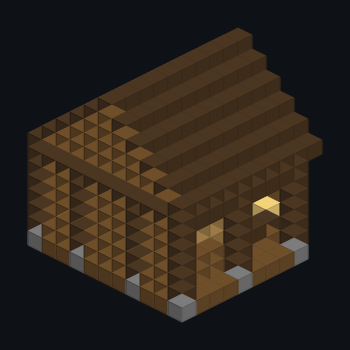
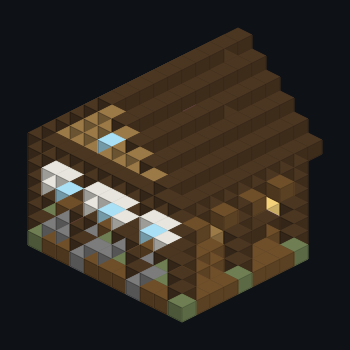
feat(world): ST4a pass over the streets and shipwright, document the village look

diff --git a/art/structures/village/shipwright.py b/art/structures/village/shipwright.py
@@ -3,8 +3,13 @@ along z) and prints the BuildSpec as JSON. The building connector is on the nort
 apron in front of the open shed.
 
 Inside: a half-built hull frame of stripped logs (keel, stem, three ribs, a strake of planks), sawhorses, a stack of
-logs, stacked planks and a workbench along the closed back wall."""
-from _style import DARK, PALETTE, lantern_post
+logs, stacked planks and a workbench along the closed back wall, a grindstone, a tar cauldron, a hoist chain from a
+collar beam over the bow.
+
+Look (ST4a): posts on mossy cobblestone footings with knee braces (upside-down stairs) under the beams, a king post
+truss in the open front gable, a back wall of two cobblestone courses (mossy towards the ground), a spruce band and
+render with three windows, the gable above it boarded in oak with a round light."""
+from _style import DARK, PALETTE, lantern_post, stairs_state, window
 from buildspec import Piece
 
 X0, X1, Z0, Z1 = 0, 10, 1, 9          # the posts' outline
@@ -21,7 +26,7 @@ p.fill(3, 0, 0, 7, 0, 0, "gravel")
 # posts and beams: open front and sides, a closed plank back wall
 posts = [(x, z) for x in (X0, X1) for z in (Z0, 5, Z1)] + [(3, Z1), (7, Z1)]
 for x, z in posts:
-    p.put(x, 0, z, "cobble")
+    p.put(x, 0, z, "plinth_mossy" if (x + z) % 2 else "plinth")
     p.fill(x, 1, z, x, BEAM - 1, z, "post")
 p.fill(X0, BEAM, Z0, X0, BEAM, Z1, "beam_z")
 p.fill(X1, BEAM, Z0, X1, BEAM, Z1, "beam_z")
@@ -29,12 +34,38 @@ for z in (Z0, 5, Z1):
     p.fill(X0 + 1, BEAM, z, X1 - 1, BEAM, z, "beam_x")
 for x in range(X0 + 1, X1):
     if (x, Z1) not in posts:
-        p.fill(x, 1, Z1, x, BEAM - 1, Z1, "spruce")
+        p.put(x, 1, Z1, "plinth_mossy" if x % 3 == 0 else "plinth")
+        p.put(x, 2, Z1, "plinth_mossy" if x % 4 == 1 else "plinth")
+        p.put(x, 3, Z1, "beam_x")
+        p.fill(x, 4, Z1, x, BEAM - 1, Z1, "render")
+for x in (2, 5, 8):
+    window(p, x, 4, Z1, "south", lintel=False)
+
+# knee braces under the beams beside the open posts, along the sides and across
+for x, inward in ((X0, "east"), (X1, "west")):
+    across = 1 if x == X0 else -1
+    for z in (Z0, 5):
+        if z == 5:
+            p.put(x, BEAM - 1, z - 1, stairs_state("spruce", "south", "top"))
+        p.put(x, BEAM - 1, z + 1, stairs_state("spruce", "north", "top"))
+        p.put(x + across, BEAM - 1, z, stairs_state("spruce", "west" if x == X0 else "east", "top"))
+    p.put(x, BEAM - 1, Z1 - 1, stairs_state("spruce", "south", "top"))
 
 # roof: ridge along z over the whole shed (it overhangs the apron at z 0), gable closed at the back
-p.roof_ridge_z(0, Z1, X0, X1, BEAM + 1, DARK, "dark_ridge", gable="spruce", gable_ends=(False, True))
-p.put(1, BEAM - 1, Z0, "lantern_hanging")
-p.put(9, BEAM - 1, Z0, "lantern_hanging")
+p.roof_ridge_z(0, Z1, X0, X1, BEAM + 1, DARK, "dark_ridge", gable="oak", gable_ends=(False, True))
+p.put(2, BEAM - 1, Z0, "lantern_hanging")
+p.put(8, BEAM - 1, Z0, "lantern_hanging")
+trim = [(x, BEAM + 1, Z1) for x in range(X0 + 1, X1) if p.get(x, BEAM + 1, Z1) == "oak"]
+for x, y, z in trim:
+    p.put(x, y, z, "beam_x")                     # the band where the gable starts
+p.put(5, BEAM + 3, Z1, "pane")                   # a round light in the gable
+
+# a king post truss in the open front gable (on the first frame), a hoist chain from a collar beam over the bow
+p.fill(5, BEAM + 1, Z0, 5, BEAM + 5, Z0, "post")
+p.put(4, BEAM + 1, Z0, stairs_state("spruce", "east", "top"))
+p.put(6, BEAM + 1, Z0, stairs_state("spruce", "west", "top"))
+p.fill(X0 + 3, BEAM + 3, 3, X1 - 3, BEAM + 3, 3, "beam_x")
+p.fill(5, BEAM + 1, 3, 5, BEAM + 2, 3, "minecraft:chain[axis=y]")
 p.put(5, BEAM - 1, 5, "lantern_hanging")
 
 # the hull frame: keel along z on the slipway, stem post at the bow (north), three ribs, a strake of planks
@@ -66,6 +97,8 @@ p.put(1, 1, 8, "minecraft:crafting_table")
 p.put(2, 1, 8, "minecraft:smithing_table")
 p.put(8, 1, 1, "minecraft:barrel[facing=up]")
 p.put(8, 2, 1, "lantern")
+p.put(2, 1, 1, "minecraft:cauldron")                                  # the tar pot
+p.put(8, 1, 6, "minecraft:grindstone[face=floor,facing=north]")
 
 # the apron: a lantern post either side of the way in, the connector in the middle
 lantern_post(p, 3, 1, 0)

diff --git a/art/structures/village/street.py b/art/structures/village/street.py
@@ -1,7 +1,8 @@
 """Generates a straight seafarer village street (7 wide, 7 long, running north-south) and prints the BuildSpec as JSON.
 
 Connectors: ``street_in`` on the north end (towards the dock head), ``street_out`` on the south end (the next street
-or a terminator), one ``building_out`` on each side. A lantern post stands on the west verge."""
+or a terminator), one ``building_out`` on each side. Stone brick kerbs line the cobbled roadway; a lantern post stands
+on the west verge, a barrel on the east one."""
 from _style import PALETTE, lantern_post
 from buildspec import Piece
 
@@ -9,21 +10,33 @@ W = L = 7
 
 p = Piece("village_street", "Seafarer Street", (W, 4, L), PALETTE)
 
-# the roadway: cobblestone with a few gravel and mossy patches, dirt path verges
-p.fill(1, 0, 0, W - 2, 0, L - 1, "cobble")
-for x, z, key in ((2, 1, "gravel"), (4, 2, "mossy"), (3, 4, "gravel"), (5, 5, "gravel"), (1, 3, "mossy"),
-                  (2, 6, "mossy")):
+# the roadway: a cobblestone crown with a few gravel and mossy patches between stone brick kerbs (weathered here and
+# there), dirt path verges
+p.fill(2, 0, 0, W - 3, 0, L - 1, "cobble")
+for x, z, key in ((2, 1, "gravel"), (4, 2, "mossy"), (3, 4, "gravel"), (4, 5, "gravel"), (2, 3, "mossy"),
+                  (2, 6, "mossy"), (3, 0, "gravel")):
+    p.put(x, 0, z, key)
+for x in (1, W - 2):
+    p.fill(x, 0, 0, x, 0, L - 1, "bricks")
+for x, z, key in ((1, 1, "bricks_mossy"), (1, 4, "bricks_cracked"), (5, 2, "bricks_mossy"), (5, 6, "bricks_cracked"),
+                  (5, 4, "bricks_mossy")):
     p.put(x, 0, z, key)
 p.fill(0, 0, 0, 0, 0, L - 1, "path")
 p.fill(W - 1, 0, 0, W - 1, 0, L - 1, "path")
+for x, z in ((0, 0), (W - 1, 5)):
+    p.put(x, 0, z, "coarse")
 
+# a lantern post on the west verge, a barrel with a flower pot on the east verge (both clear of the building doors at
+# z 3)
 lantern_post(p, 0, 1, 5)
+p.put(W - 1, 1, 6, "minecraft:barrel[facing=up]")
+p.put(W - 1, 2, 6, "minecraft:flower_pot")
 
 p.connector(3, 0, 0, "street_in", "north", "minecraft:cobblestone")
 p.connector(3, 0, L - 1, "street_out", "south", "minecraft:cobblestone")
 p.connector(0, 0, 3, "building_out", "west", "minecraft:dirt_path")
 p.connector(W - 1, 0, 3, "building_out", "east", "minecraft:dirt_path")
 
-p.emit("cobbled village street with dirt path verges",
+p.emit("cobbled village street with stone brick kerbs and dirt path verges",
        ["Runs along z: street_in at the north end, street_out at the south end.",
         "building_out connectors on both verges at z 3; buildings attach with their north (door) side."])

diff --git a/art/structures/village/street_end.py b/art/structures/village/street_end.py
@@ -2,7 +2,8 @@
 
 The terminator piece (pool ``village/terminators``): the fallback for a street's ``street_out`` once the jigsaw depth
 runs out, so streets end in a cobbled turning place instead of an open edge. Connector: ``street_in`` on the north
-end. A lantern post and two barrels stand at the far edge."""
+end. A lantern post between two benches and two barrels stand at the
+far edge."""
 from _style import PALETTE, lantern_post
 from buildspec import Piece
 
@@ -12,18 +13,26 @@ p = Piece("village_street_end", "Seafarer Street End", (W, 4, L), PALETTE)
 
 # the roadway widens into a small cobbled place, rounded off at the far corners with dirt path
 p.fill(1, 0, 0, W - 2, 0, L - 1, "cobble")
+p.fill(1, 0, 0, 1, 0, L - 2, "bricks")            # the street's kerbs run in and turn along the far edge
+p.fill(W - 2, 0, 0, W - 2, 0, L - 2, "bricks")
+p.fill(1, 0, L - 1, W - 2, 0, L - 1, "bricks")
+p.put(4, 0, L - 1, "bricks_mossy")
 p.fill(0, 0, 0, 0, 0, L - 2, "path")
 p.fill(W - 1, 0, 0, W - 1, 0, L - 2, "path")
 p.put(0, 0, L - 1, "coarse")
 p.put(W - 1, 0, L - 1, "coarse")
-for x, z, key in ((2, 1, "mossy"), (4, 2, "gravel")):
+for x, z, key in ((2, 1, "mossy"), (4, 1, "gravel")):
     p.put(x, 0, z, key)
 
+# along the far edge: a lantern post between two benches, a barrel at either end (one with a flower pot)
 lantern_post(p, 3, 1, L - 1)
+p.put(2, 1, L - 1, "minecraft:spruce_stairs[facing=south,half=bottom]")
+p.put(4, 1, L - 1, "minecraft:spruce_stairs[facing=south,half=bottom]")
 p.put(1, 1, L - 1, "minecraft:barrel[facing=up,open=false]")
 p.put(5, 1, L - 1, "minecraft:barrel[facing=up,open=false]")
+p.put(5, 2, L - 1, "minecraft:flower_pot")
 
 p.connector(3, 0, 0, "street_in", "north", "minecraft:cobblestone")
 
-p.emit("cobbled street end with a lantern post and barrels",
+p.emit("cobbled street end with kerbs, a lantern post, benches and barrels",
        ["Terminator: attaches to a street's street_out with its north end (street_in) and spawns nothing."])

diff --git a/art/README.md b/art/README.md
@@ -1254,15 +1254,30 @@ deeper, the footings hang in the water.
 
 | piece | size (x×y×z) | blocks | contents | mod blocks |
 |---|---|---|---|---|
-| `dock_head` (start) | 11×8×11 | 289 | stone quay, harbor master's hut (desk facing the door, cargo, lectern), notice board beside the door, two lantern posts at the pier landing, mooring rings on the sea edge, crates and barrels; `pier_out` [5, 0, 0], `street_out` [2, 0, 10] | `harbor_desk`, `notice_board`, `mooring_ring`, `cargo_crate`, `cargo_barrel` |
-| `pier` | 7×9×20 | 197 | 5 wide plank deck on spruce piles with footings, cross beams, a rail and two lantern posts at the seaward end, a ladder down; `pier_in` [3, 5, 19], berths [0, 4, 9] and [6, 4, 9] | `mooring_ring`, `cleat` |
-| `street` | 7×4×7 | 52 | cobbled street with gravel and moss patches, dirt path verges, a lantern post; `street_in` [3, 0, 0], `street_out` [3, 0, 6], `building_out` [0, 0, 3] and [6, 0, 3] | |
-| `street_end` (terminator) | 7×4×3 | 26 | cobbled turning place at a street's end, a lantern post and two barrels; `street_in` [3, 0, 0] | |
-| `house_small` | 7×9×9 | 237 | 7×7 cottage of white render (calcite) on stripped spruce posts, red tile roof, bed, table and stool, chest, barrel, crafting table; `building_in` [3, 0, 0] | |
-| `tavern` | 11×15×11 | 695 | 11×9, two floors: bar with barrels, two tables with stools, a hanging lantern, stairs, two beds upstairs; a dark oak panel above the door for a sign; `building_in` [5, 0, 0] | `cargo_barrel` |
-| `shipwright` | 11×13×10 | 441 | open shed on posts with a dark roof, a half-built hull (keel, stem, three frames, a strake) on a gravel slipway, sawhorses, stacked logs and planks, crafting and smithing tables; `building_in` [5, 0, 0] | |
+| `dock_head` (start) | 11×8×11 | 308 | stone quay (mossy towards the sea, cracked inland), harbor master's hut (desk facing the door, cargo, lectern): render on a cobblestone plinth between spruce corner posts, framed door under a hood, windows with sills (shutters where the box allows), spruce band in the gables, rafter ends; notice board beside the door, two lantern posts at the pier landing, mooring rings on the sea edge, crates and barrels, a bench at the hut's west wall, a barrel with a flower pot by the street; `pier_out` [5, 0, 0], `street_out` [2, 0, 10] | `harbor_desk`, `notice_board`, `mooring_ring`, `cargo_crate`, `cargo_barrel` |
+| `pier` | 7×9×20 | 240 | 5 wide plank deck (a few weathered dark oak boards) on spruce piles with mostly mossy footings, cross beams, stripped spruce wales at the waterline, a rail and two lantern posts at the seaward end, a ladder down; at the landward end (clear of the berths) a lantern post and rail on each edge and cargo (barrels, crates); `pier_in` [3, 5, 19], berths [0, 4, 9] and [6, 4, 9] | `mooring_ring`, `cleat`, `cargo_crate`, `cargo_barrel` |
+| `street` | 7×4×7 | 54 | cobbled crown with gravel and moss patches between stone brick kerbs (some mossy or cracked), dirt path verges with coarse patches, a lantern post, a barrel with a flower pot (both clear of the doors at z 3); `street_in` [3, 0, 0], `street_out` [3, 0, 6], `building_out` [0, 0, 3] and [6, 0, 3] | |
+| `street_end` (terminator) | 7×4×3 | 29 | cobbled turning place, the kerbs turning along the far edge, a lantern post between two benches, two barrels (one with a flower pot); `street_in` [3, 0, 0] | |
+| `house_small` | 7×9×9 | 261 | 7×7 cottage: mossy cobblestone plinth, white render between stripped spruce corner posts, framed door under a hood, windows with sills (outside on the front and back, set into the wall on the gables), shutters on the back, spruce wall plate and gable band, rafter ends under both eaves, render gables with attic lights, brick chimney on the east gable over a furnace hearth, red tile roof; bed, table and stool, chest, barrel with lantern, crafting table with flower pot, bookshelf, rug, a lantern on a tie beam; `building_in` [3, 0, 0] | |
+| `tavern` | 11×15×11 | 774 | 11×9, two floors: mossy plinth, render between stripped spruce corner and mid posts and oak door posts, spruce band at the upper floor, tall framed ground floor windows and single upper ones with shutters and sills, a gallery rail on a slab ledge and brackets over the porch with a french door behind it, lanterns either side of the door, rafter ends, boarded gables with lights, brick chimney on the east gable over a hearth; bar with barrels, two tables with stools, a hanging lantern, stairs, two beds upstairs, a crate, rugs, a lantern on a tie beam; a dark oak panel above the door for a sign; `building_in` [5, 0, 0] | `cargo_barrel`, `cargo_crate` |
+| `shipwright` | 11×13×10 | 469 | open shed on posts (mossy cobblestone footings, knee braces under the beams) with a dark roof, a king post truss in the open front gable, a back wall of two cobblestone courses, a spruce band and render with three windows, an oak boarded gable with a light; a half-built hull (keel, stem, three frames, a strake) on a gravel slipway, a hoist chain from a collar beam over the bow, sawhorses, stacked logs and planks, crafting and smithing tables, a grindstone, a tar cauldron; `building_in` [5, 0, 0] | |
 
 Renders: `art/renders/structures/village/{dock_head,pier,street,street_end,house_small,tavern,shipwright}.png`.
+
+**ST4a pass (the look):** every village piece follows design.md §10.1 "Look of the buildings" with one palette from
+`art/structures/village/_style.py`: spruce for the frame (stripped spruce posts, plates, bands, rafter ends, shutters,
+doors, sills), oak for the joinery around openings (stripped oak lintels and door frames, the shipwright's boards),
+cobblestone for plinths and footings (mossy towards the ground) and stone bricks for the quay and the street kerbs,
+red brick as the accent (tile roofs, ridges, chimneys) with dark shingle roofs on the working buildings, white render
+(calcite) as the infill. The fittings: `corner_post`, `plinth` (cobblestone course over a mostly mossy foundation row,
+a fixed scatter so the output stays byte-identical), `trim_band` (stripped logs over the infill only), `window` (panes,
+an oak lintel, spruce slab sill and open trapdoor shutters outside; where the outside is beyond the box, e.g. the east
+and west walls that are the box faces, an upside-down stair set into the wall as the sill and no shutters),
+`door_frame` (door, oak posts and lintel, an upside-down stair hood), `rafter_ends` (upside-down stairs under the
+eaves), `chimney` (bricks with a brick wall pot, no campfire) and `hearth` (a furnace at its foot). `buildspec.Piece`
+gained `inside` and `put_inside` for fittings near the box faces. Box sizes, jigsaws, berths, final states and doors
+are unchanged. Note the lab's preview colours whole cubes by name (stairs, trapdoors and fences render as full blocks,
+mod blocks in hashed colours), so the committed renders look heavier than the game.
 
 **Adding a piece:** copy a generator in the group's folder, keep the conventions above (foundation row, north
 front, connectors on the box faces), then run `python3 tools/build_structures.py <group>/<piece>`. Look at the
